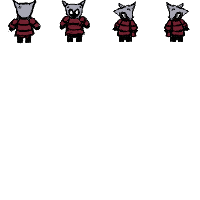
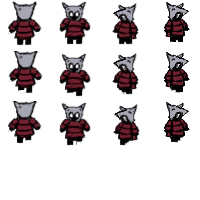
feature: show moving efect on player sprites

diff --git a/src/main.js b/src/main.js
@@ -107,6 +107,10 @@ function Player(x, y) {
 	this.x = x;
 	this.y = y;
 	this.atackDelay = 0;
+	this.movingDelay = 0;
+	this.isMoving = false;
+	this.isMovingDelay = 0;
+	this.animationIndex = false;
 
 	/*
 	 * lookingAt
@@ -118,16 +122,12 @@ function Player(x, y) {
 	this.lookingAt = 0;
 
 	this.draw = () => {
-		ctx.fillStyle = "red";
-		//ctx.drawImage(arrowSprite, this.sx, this.sy, this.arrowSize, this.arrowSize, this.x, this.y, this.arrowSize, this.arrowSize);
-		//ctx.fillRect(this.x, this.y, tileLen, tileLen);
-		ctx.drawImage(playerSprite, (this.lookingAt * 50), 0, tileLen, tileLen, this.x, this.y, tileLen, tileLen);
-		//this.drawLookHelp()
-		if(this.atackDelay > 1)
-		{
-			this.atackDelay--;
-			this.drawAtack();
+		if(this.isMoving){
+			this.handleSpriteMove();
+		} else {
+			ctx.drawImage(playerSprite, (this.lookingAt * 50), 0, tileLen, tileLen, this.x, this.y, tileLen, tileLen);
 		}
+		this.handleAtack();
 	}
 
 	this.update = () => {
@@ -136,23 +136,51 @@ function Player(x, y) {
 		this.draw();
 	}
 
+	this.handleSpriteMove = () => {
+		this.drawMovingCharacter();
+			this.movingDelay--;
+			if(this.movingDelay <= 0){
+				this.isMoving = false;
+			}
+	}
+
+	this.handleAtack = () => {
+		if(this.atackDelay > 1){
+			this.atackDelay--;
+			this.drawAtack();
+		}
+	}
+
+	this.drawMovingCharacter = () => {
+		if (this.isMovingDelay > 10){
+			this.isMovingDelay = 0;
+			this.animationIndex = !this.animationIndex;
+		}
+		this.isMovingDelay++;
+		if(this.animationIndex){
+			ctx.drawImage(playerSprite, (this.lookingAt * 50), 50, tileLen, tileLen, this.x, this.y, tileLen, tileLen);
+		} else {
+			ctx.drawImage(playerSprite, (this.lookingAt * 50), 100, tileLen, tileLen, this.x, this.y, tileLen, tileLen);	
+		}
+	}
+
 	this.drawLookHelp = () => {
-		ctx.fillStyle = "black";
+			ctx.fillStyle = "black";
 		if(this.lookingAt === 0){
-				ctx.fillRect(this.x, this.y, tileLen, lookHelperWidth)
-				return;
+			ctx.fillRect(this.x, this.y, tileLen, lookHelperWidth)
+			return;
 		}
 		if(this.lookingAt === 1){
-				ctx.fillRect(this.x, this.y + (tileLen - lookHelperWidth), tileLen, lookHelperWidth)
-				return;
+			ctx.fillRect(this.x, this.y + (tileLen - lookHelperWidth), tileLen, lookHelperWidth)
+			return;
 		}
 		if(this.lookingAt === 2){
-				ctx.fillRect(this.x, this.y, lookHelperWidth, tileLen)
-				return;
+			ctx.fillRect(this.x, this.y, lookHelperWidth, tileLen)
+			return;
 		}
 		if(this.lookingAt === 3){
-				ctx.fillRect(this.x + (tileLen - lookHelperWidth), this.y, lookHelperWidth, tileLen)
-				return;
+			ctx.fillRect(this.x + (tileLen - lookHelperWidth), this.y, lookHelperWidth, tileLen)
+			return;
 		}
 	}
 
@@ -186,11 +214,11 @@ function Player(x, y) {
 }
 
 var position = {
-	x: 10,
-	y: 10
+	x: 200,
+	y: 200
 };
 
-var p1 = new Player(10, 10);
+var p1 = new Player(200, 200);
 
 var arrowsThrowed = [];
 var arrowsOffLimit = [];
@@ -224,18 +252,26 @@ function animate() {
 const moveUp = () => {
 	position.y -= userSpeed; 
 	p1.lookingAt = 0;
+	p1.isMoving = true;
+	p1.movingDelay+= 5;
 }
 const moveDown = () => {
 	position.y += userSpeed; 
 	p1.lookingAt = 1;
+	p1.isMoving = true;
+	p1.movingDelay+= 5;
 }
 const moveLeft = () => {
 	position.x -= userSpeed; 
 	p1.lookingAt = 2;
+	p1.isMoving = true;
+	p1.movingDelay+= 5;
 }
 const moveRight = () => {
 	position.x += userSpeed; 
 	p1.lookingAt = 3;
+	p1.isMoving = true;
+	p1.movingDelay+= 5;
 }
 
 window.addEventListener("keydown", (event) => {
@@ -276,6 +312,7 @@ window.addEventListener("keydown", (event) => {
 			break;
 	}
 })
+
 left_arrow.addEventListener("click", moveLeft);
 up_arrow.addEventListener("click", moveUp);
 down_arrow.addEventListener("click", moveDown);
